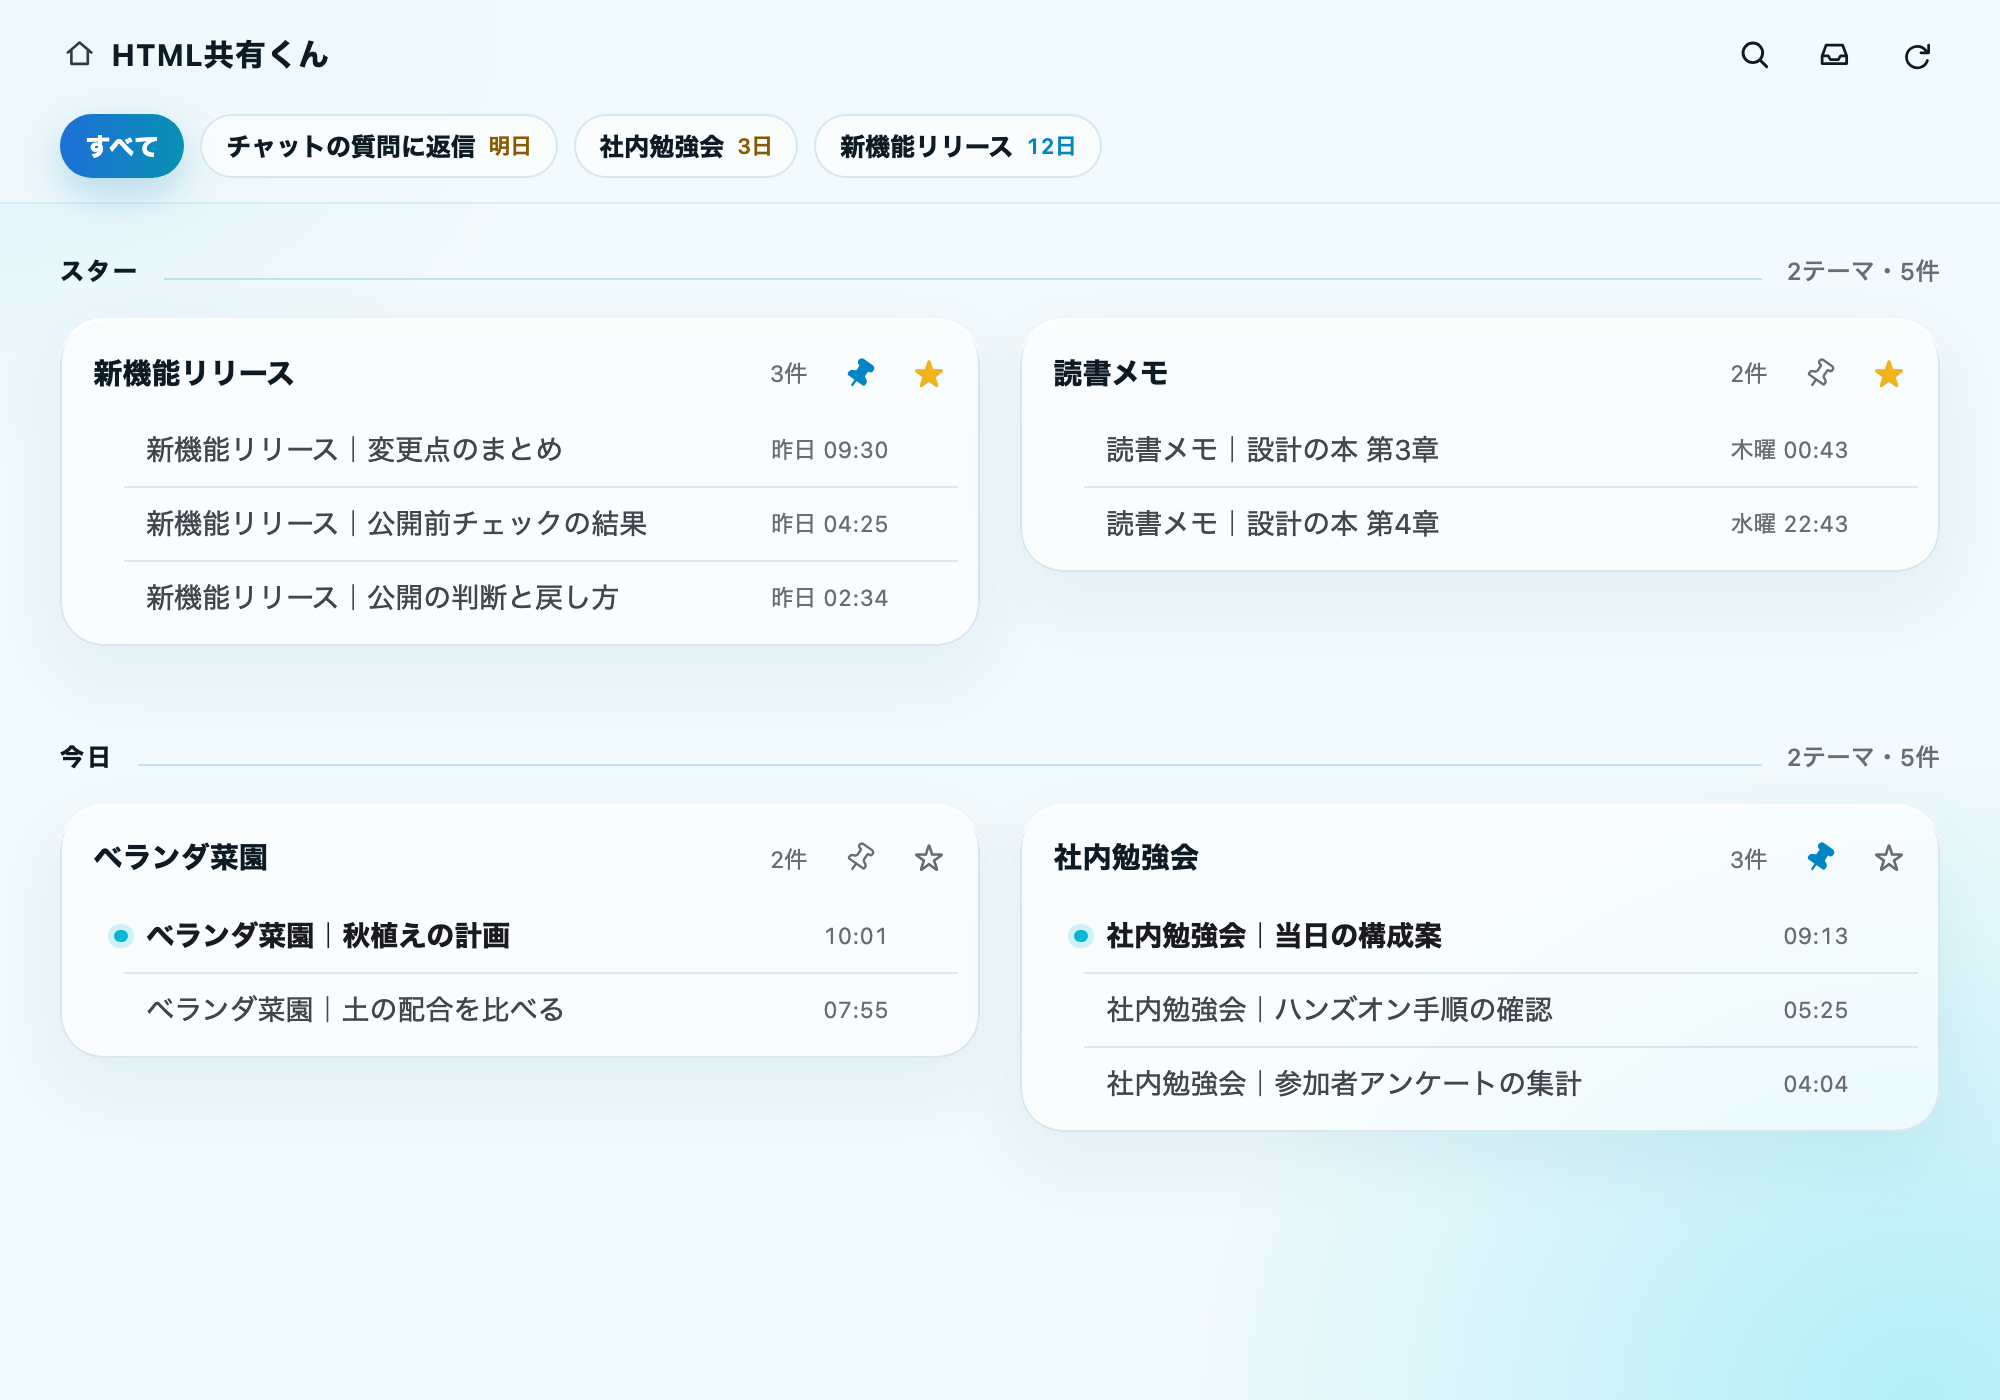
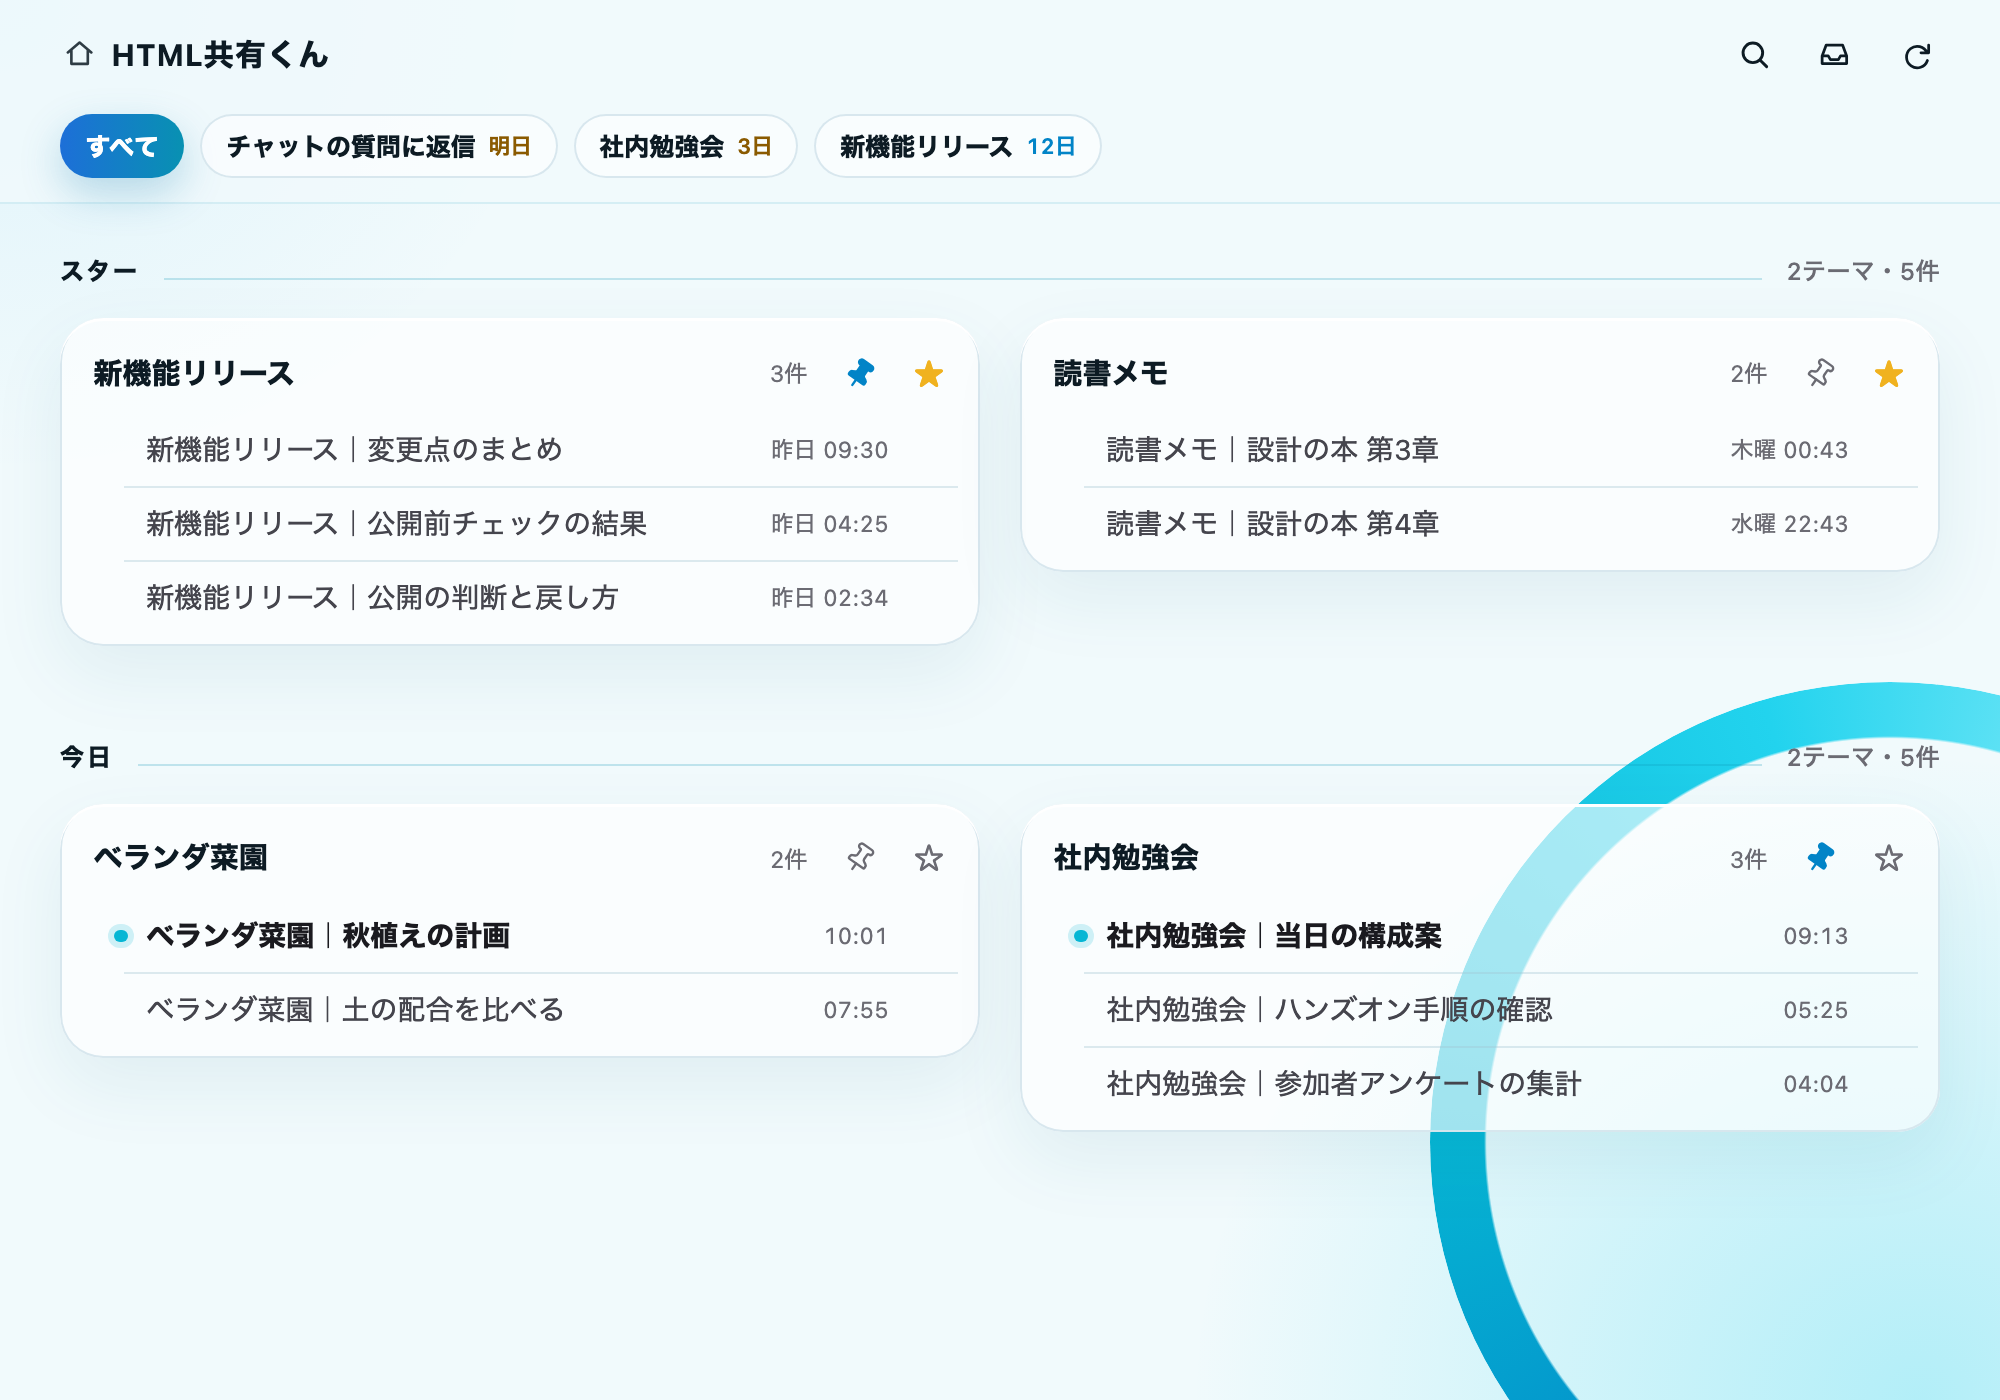
Add the lower-right ring to the light site theme and the v2 page style, and retake the README screenshots with it

Changed region(s): [[0.713, 0.4607, 1.0, 1.0]]

diff --git a/themes/site/light.css b/themes/site/light.css
@@ -1,5 +1,5 @@
 /* Site theme "light" (the default): a pale aqua page with a soft blue-to-teal wash from the
-   lower right, translucent white cards, and a blue-to-teal gradient for primary actions.
+   lower right, a blue-to-teal ring peeking in from the lower-right corner, translucent white cards, and a blue-to-teal gradient for primary actions.
    Copy this file to make your own theme and point content.siteTheme at it (see docs/site-theme.md).
    --t-base is required: the build uses it for theme-color and the web app manifest. */
 :root {
@@ -33,4 +33,17 @@
   --t-cta-shadow: 0 8px 20px rgba(8, 120, 170, .25);
   /* The screens paint the area behind the status bar with --safe-top; keep it equal to --t-base. */
   --safe-top: #f1fafc;
+}
+/* The ring: a blue-to-teal circle fixed to the lower-right corner. It stays put while the
+   page scrolls, and the translucent cards let it show through. */
+html body::after {
+  content: ""; position: fixed; z-index: -1; pointer-events: none;
+  width: min(46vw, 560px); aspect-ratio: 1; border-radius: 50%;
+  right: calc(min(46vw, 560px) * -.38); bottom: calc(min(46vw, 560px) * -.22);
+  background: conic-gradient(from 200deg, #0284c7, #06b6d4, #22d3ee, #a5f3fc, #ecfeff, #0284c7);
+  -webkit-mask: radial-gradient(circle, transparent 0 62%, #000 62.4%);
+  mask: radial-gradient(circle, transparent 0 62%, #000 62.4%);
+}
+@media (max-width: 46rem) {
+  html body::after { width: 300px; right: -150px; bottom: -60px; }
 }

diff --git a/skills/create-html/assets/brief.css b/skills/create-html/assets/brief.css
@@ -43,6 +43,11 @@ body{
 }
 /* The wash. iOS Safari ignores background-attachment:fixed, so it is drawn on a layer fixed to the screen */
 body::before{content:"";position:fixed;inset:0;z-index:-2;pointer-events:none;background:var(--wash)}
+/* The ring of the light theme: a blue-to-teal circle fixed to the lower-right corner */
+:root[data-brief="light"] body::after{content:"";position:fixed;z-index:-1;pointer-events:none;border-radius:50%;
+  width:min(46vw,560px);aspect-ratio:1;right:calc(min(46vw,560px) * -.38);bottom:calc(min(46vw,560px) * -.22);
+  background:conic-gradient(from 200deg,#0284c7,#06b6d4,#22d3ee,#a5f3fc,#ecfeff,#0284c7);
+  -webkit-mask:radial-gradient(circle,transparent 0 62%,#000 62.4%);mask:radial-gradient(circle,transparent 0 62%,#000 62.4%)}
 .wrap{max-width:940px;margin:0 auto;padding:0 max(22px,env(safe-area-inset-left))}
 .wrap p{margin:10px 0}
 .wrap a{color:var(--blue-mid);text-underline-offset:.2em}
@@ -150,4 +155,5 @@ footer{margin:56px 0 0;padding:28px 0 40px;border-top:1px solid var(--hair);font
   section{padding-top:38px}
   .callout{padding:16px 18px}
   .toc{padding:18px 20px}
+  :root[data-brief="light"] body::after{width:300px;right:-150px;bottom:-60px}
 }

diff --git a/docs/site-theme.md b/docs/site-theme.md
@@ -15,7 +15,7 @@ content:
 
 | 値 | 画面 |
 |---|---|
-| `light` | 淡い水色の地に、右下から青緑のグラデ。上バー・カード・絞り込みチップは白い半透明の面 |
+| `light` | 淡い水色の地に、右下から青緑のグラデと、右下の隅から覗く青→ターコイズの輪。上バー・カード・絞り込みチップは白い半透明の面 |
 | `classic` | テーマを差し込まず、画面の元の配色（濃い青の上バー）で配る |
 | `.css` で終わるパス | そのファイルの変数で `light` と同じ作りの画面にする |
 
